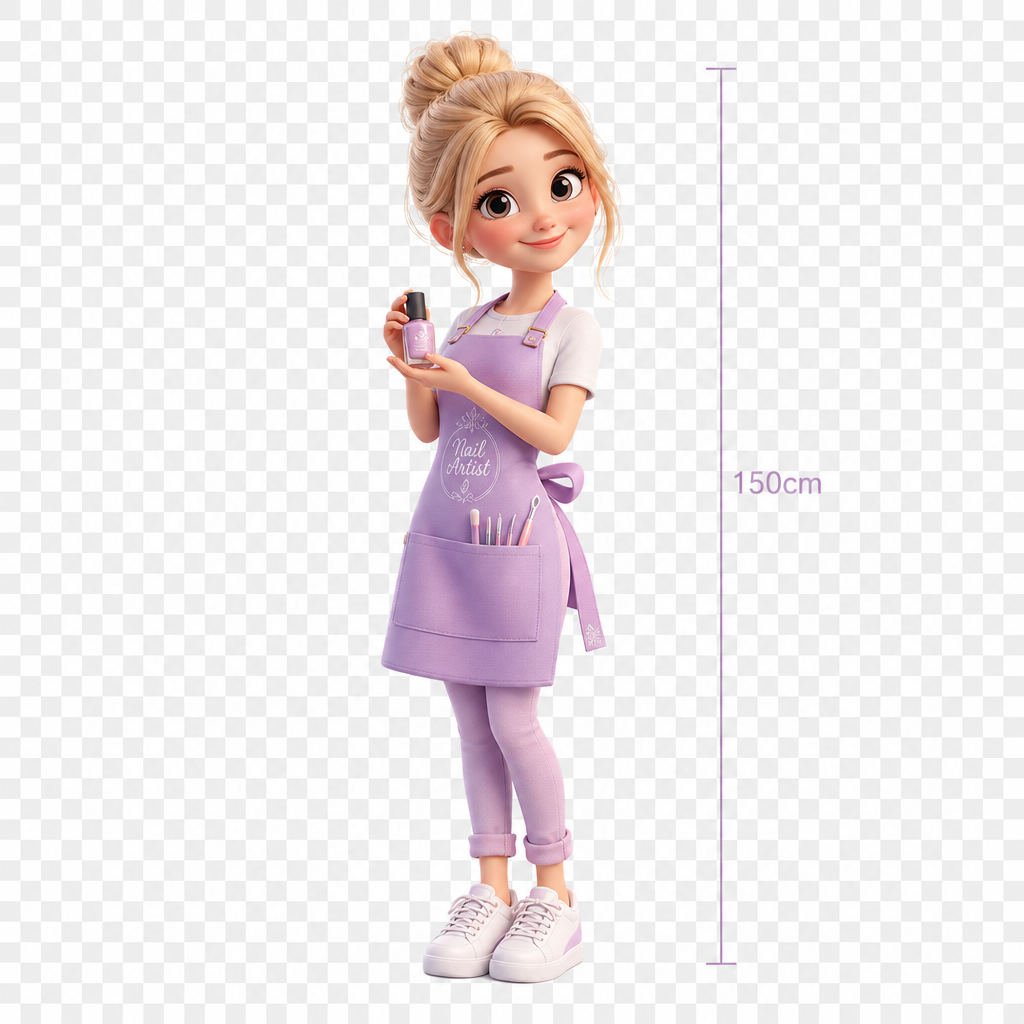
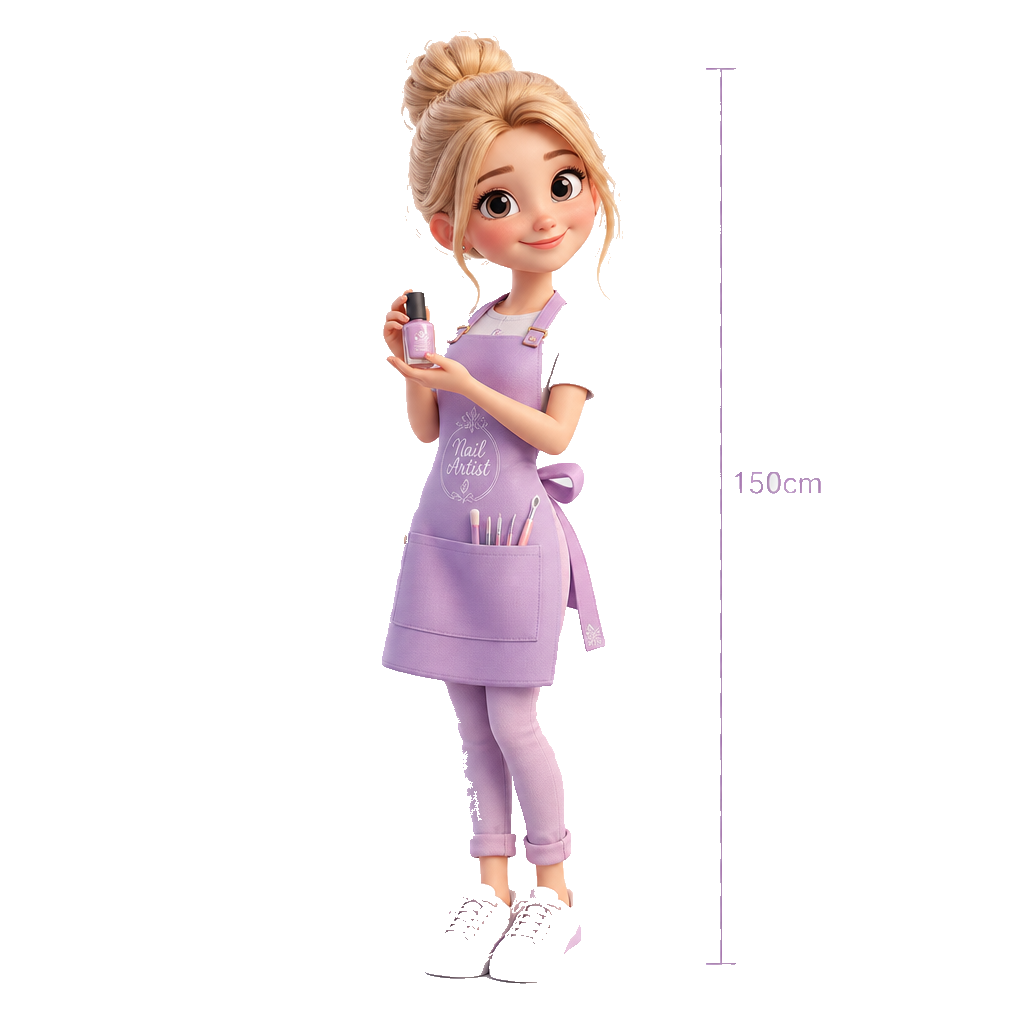
feat: add color intensity setting and restore original character asset
Keep the colorIntensity slider in salon appearance settings so managers
can control how light or bold the booking theme appears.

Revert later character image experiments: restore the original lavender
outfit design with transparent background only (flood-fill removal).

diff --git a/lib/salon-appearance.ts b/lib/salon-appearance.ts
@@ -1,12 +1,16 @@
 export interface SalonAppearance {
   hue: number
+  colorIntensity: number
   welcomeBadge: string
   welcomeSubtitle: string
   showCharacter: boolean
 }
 
+export const DEFAULT_COLOR_INTENSITY = 50
+
 export const DEFAULT_SALON_APPEARANCE: SalonAppearance = {
   hue: 300,
+  colorIntensity: DEFAULT_COLOR_INTENSITY,
   welcomeBadge: 'خوش آمدید به فیر سالن',
   welcomeSubtitle: 'تاریخ، خدمات و زمان دلخواهت رو انتخاب کن — ما آمادهایم ناخنهات رو بدرخشونیم!',
   showCharacter: true,
@@ -20,11 +24,22 @@ const LEGACY_THEME_HUE: Record<string, number> = {
   amber: 75,
 }
 
+function clamp(value: number, min: number, max: number): number {
+  return Math.min(max, Math.max(min, value))
+}
+
 function normalizeHue(value: unknown): number | null {
   if (typeof value !== 'number' || !Number.isFinite(value)) return null
   const rounded = Math.round(value)
   if (rounded < 0 || rounded > 360) return null
   return rounded === 360 ? 0 : rounded
+}
+
+export function normalizeColorIntensity(value: unknown): number {
+  if (typeof value !== 'number' || !Number.isFinite(value)) {
+    return DEFAULT_COLOR_INTENSITY
+  }
+  return clamp(Math.round(value), 0, 100)
 }
 
 export function resolveHueFromAppearance(raw: unknown): number {
@@ -48,27 +63,70 @@ function wrapHue(hue: number): number {
   return normalized
 }
 
+function intensityFactor(colorIntensity: number): number {
+  return (normalizeColorIntensity(colorIntensity) - DEFAULT_COLOR_INTENSITY) / DEFAULT_COLOR_INTENSITY
+}
+
+function adjustLightness(base: number, delta: number, factor: number): number {
+  return clamp(base - factor * delta, 0, 1)
+}
+
+function adjustChroma(base: number, delta: number, factor: number): number {
+  return clamp(base + factor * delta, 0, 0.26)
+}
+
+function oklch(l: number, c: number, h: number, alpha?: number): string {
+  const lStr = l.toFixed(2).replace(/\.?0+$/, '')
+  const cStr = c.toFixed(2).replace(/\.?0+$/, '')
+  if (alpha !== undefined) {
+    return `oklch(${lStr} ${cStr} ${h} / ${alpha})`
+  }
+  return `oklch(${lStr} ${cStr} ${h})`
+}
+
 /**
- * Build the full booking-page CSS variable palette from a single hue (0–360).
- * Mirrors the OKLCH lightness/chroma patterns of the former fixed presets.
+ * Build the full booking-page CSS variable palette from hue (0–360) and intensity (0–100).
+ * Intensity 50 matches the original fixed preset lightness/chroma values.
  */
-export function buildThemeVarsFromHue(hue: number): Record<string, string> {
+export function buildThemeVarsFromHue(
+  hue: number,
+  colorIntensity = DEFAULT_COLOR_INTENSITY
+): Record<string, string> {
   const h = wrapHue(hue)
   const h2 = wrapHue(h + 50)
   const hBanner2 = wrapHue(h + 10)
   const hBanner3 = wrapHue(h + 30)
+  const factor = intensityFactor(colorIntensity)
 
   return {
-    '--salon-bg-1': `oklch(0.94 0.04 ${h})`,
-    '--salon-bg-2': `oklch(0.97 0.02 ${h2})`,
-    '--salon-bg-3': 'oklch(0.96 0.03 85)',
-    '--salon-banner-1': `oklch(0.55 0.18 ${h})`,
-    '--salon-banner-2': `oklch(0.62 0.16 ${hBanner2})`,
-    '--salon-banner-3': `oklch(0.68 0.14 ${hBanner3})`,
-    '--salon-text': `oklch(0.35 0.12 ${h})`,
-    '--salon-text-muted': `oklch(0.45 0.08 ${h} / 0.8)`,
-    '--salon-accent': `oklch(0.62 0.2 ${h2})`,
-    '--salon-card-border': `oklch(0.92 0.03 ${h} / 0.6)`,
+    '--salon-bg-1': oklch(adjustLightness(0.94, 0.06, factor), adjustChroma(0.04, 0.03, factor), h),
+    '--salon-bg-2': oklch(adjustLightness(0.97, 0.05, factor), adjustChroma(0.02, 0.02, factor), h2),
+    '--salon-bg-3': oklch(adjustLightness(0.96, 0.04, factor), adjustChroma(0.03, 0.02, factor), 85),
+    '--salon-banner-1': oklch(adjustLightness(0.55, 0.15, factor), adjustChroma(0.18, 0.08, factor), h),
+    '--salon-banner-2': oklch(
+      adjustLightness(0.62, 0.14, factor),
+      adjustChroma(0.16, 0.07, factor),
+      hBanner2
+    ),
+    '--salon-banner-3': oklch(
+      adjustLightness(0.68, 0.12, factor),
+      adjustChroma(0.14, 0.06, factor),
+      hBanner3
+    ),
+    '--salon-text': oklch(adjustLightness(0.35, 0.08, factor), adjustChroma(0.12, 0.04, factor), h),
+    '--salon-text-muted': oklch(
+      adjustLightness(0.45, 0.07, factor),
+      adjustChroma(0.08, 0.03, factor),
+      h,
+      0.8
+    ),
+    '--salon-accent': oklch(adjustLightness(0.62, 0.1, factor), adjustChroma(0.2, 0.06, factor), h2),
+    '--salon-card-border': oklch(
+      adjustLightness(0.92, 0.04, factor),
+      adjustChroma(0.03, 0.02, factor),
+      h,
+      0.6
+    ),
   }
 }
 
@@ -81,6 +139,7 @@ export function parseSalonAppearance(raw: unknown): SalonAppearance {
 
   return {
     hue: resolveHueFromAppearance(value),
+    colorIntensity: normalizeColorIntensity(value.colorIntensity),
     welcomeBadge:
       typeof value.welcomeBadge === 'string' && value.welcomeBadge.trim()
         ? value.welcomeBadge.trim()
@@ -102,7 +161,7 @@ export function extractSalonAppearance(settings: unknown): SalonAppearance {
 }
 
 export function appearanceStyleVars(appearance: SalonAppearance): Record<string, string> {
-  return buildThemeVarsFromHue(appearance.hue)
+  return buildThemeVarsFromHue(appearance.hue, appearance.colorIntensity)
 }
 
 /** Normalize appearance patch: convert legacy theme → hue, drop theme key */
@@ -120,6 +179,10 @@ export function normalizeAppearancePatch(
   if (typeof next.hue === 'number') {
     const hue = normalizeHue(next.hue)
     if (hue !== null) next.hue = hue
+  }
+
+  if (typeof next.colorIntensity === 'number') {
+    next.colorIntensity = normalizeColorIntensity(next.colorIntensity)
   }
 
   return next

diff --git a/tests/salon-appearance.test.ts b/tests/salon-appearance.test.ts
@@ -1,0 +1,68 @@
+import { describe, it, expect } from 'vitest'
+import {
+  buildThemeVarsFromHue,
+  DEFAULT_COLOR_INTENSITY,
+  DEFAULT_SALON_APPEARANCE,
+  normalizeColorIntensity,
+  parseSalonAppearance,
+  appearanceStyleVars,
+} from '@/lib/salon-appearance'
+
+describe('normalizeColorIntensity', () => {
+  it('defaults invalid values to 50', () => {
+    expect(normalizeColorIntensity(undefined)).toBe(50)
+    expect(normalizeColorIntensity(null)).toBe(50)
+    expect(normalizeColorIntensity('abc')).toBe(50)
+  })
+
+  it('clamps to 0–100', () => {
+    expect(normalizeColorIntensity(-10)).toBe(0)
+    expect(normalizeColorIntensity(150)).toBe(100)
+    expect(normalizeColorIntensity(72.6)).toBe(73)
+  })
+})
+
+describe('parseSalonAppearance', () => {
+  it('defaults colorIntensity when missing', () => {
+    const appearance = parseSalonAppearance({ hue: 300 })
+    expect(appearance.colorIntensity).toBe(DEFAULT_COLOR_INTENSITY)
+  })
+
+  it('reads colorIntensity when set', () => {
+    const appearance = parseSalonAppearance({ hue: 300, colorIntensity: 80 })
+    expect(appearance.colorIntensity).toBe(80)
+  })
+})
+
+describe('buildThemeVarsFromHue', () => {
+  const baseline = buildThemeVarsFromHue(300, DEFAULT_COLOR_INTENSITY)
+
+  it('matches original palette at default intensity', () => {
+    expect(baseline['--salon-bg-1']).toBe('oklch(0.94 0.04 300)')
+    expect(baseline['--salon-banner-1']).toBe('oklch(0.55 0.18 300)')
+    expect(baseline['--salon-text']).toBe('oklch(0.35 0.12 300)')
+    expect(baseline['--salon-text-muted']).toBe('oklch(0.45 0.08 300 / 0.8)')
+  })
+
+  it('darkens and saturates banners at high intensity', () => {
+    const bold = buildThemeVarsFromHue(300, 100)
+    expect(bold['--salon-banner-1']).toBe('oklch(0.4 0.26 300)')
+    expect(bold['--salon-bg-1']).toBe('oklch(0.88 0.07 300)')
+  })
+
+  it('lightens and softens banners at low intensity', () => {
+    const soft = buildThemeVarsFromHue(300, 0)
+    expect(soft['--salon-banner-1']).toBe('oklch(0.7 0.1 300)')
+    expect(soft['--salon-bg-1']).toBe('oklch(1 0.01 300)')
+  })
+
+  it('passes colorIntensity through appearanceStyleVars', () => {
+    const appearance = {
+      ...DEFAULT_SALON_APPEARANCE,
+      hue: 190,
+      colorIntensity: 100,
+    }
+    const vars = appearanceStyleVars(appearance)
+    expect(vars['--salon-banner-1']).toBe('oklch(0.4 0.26 190)')
+  })
+})

diff --git a/components/salon/color-intensity-slider.tsx b/components/salon/color-intensity-slider.tsx
@@ -1,0 +1,47 @@
+'use client'
+
+import { Label } from '@/components/ui/label'
+import { Slider } from '@/components/ui/slider'
+import { englishToPersian } from '@/lib/jalali'
+
+interface ColorIntensitySliderProps {
+  value: number
+  onChange: (colorIntensity: number) => void
+}
+
+export function ColorIntensitySlider({ value, onChange }: ColorIntensitySliderProps) {
+  const intensity = Number.isFinite(value) ? Math.min(100, Math.max(0, Math.round(value))) : 50
+
+  return (
+    <div className="space-y-4">
+      <div className="flex items-center justify-between gap-3">
+        <Label>شدت رنگ</Label>
+        <span className="text-sm text-muted-foreground tabular-nums" dir="ltr">
+          {englishToPersian(String(intensity))}
+        </span>
+      </div>
+
+      <div className="relative pt-1 pb-2" dir="ltr">
+        <div
+          className="absolute inset-x-0 top-1/2 h-3 -translate-y-1/2 rounded-full bg-gradient-to-r from-violet-100 via-violet-400 to-violet-900"
+          aria-hidden
+        />
+        <Slider
+          min={0}
+          max={100}
+          step={1}
+          value={[intensity]}
+          onValueChange={(values) => {
+            const next = values[0]
+            if (typeof next === 'number') onChange(next)
+          }}
+          className="relative z-10 [&_[data-slot=slider-track]]:bg-transparent [&_[data-slot=slider-range]]:bg-transparent"
+        />
+      </div>
+
+      <p className="text-xs text-muted-foreground">
+        ملایم و روشنتر در سمت چپ — پررنگ و تیرهتر در سمت راست
+      </p>
+    </div>
+  )
+}

diff --git a/app/dashboard/settings/page.tsx b/app/dashboard/settings/page.tsx
@@ -28,7 +28,7 @@ import {
   extractSalonAppearance,
   appearanceStyleVars,
 } from '@/lib/salon-appearance'
-import { HueColorSlider } from '@/components/salon'
+import { HueColorSlider, ColorIntensitySlider } from '@/components/salon'
 
 const fetcher = async (url: string) => {
   const res = await fetch(url, { credentials: 'include', cache: 'no-store' })
@@ -458,10 +458,15 @@ export default function SettingsPage() {
                   رنگ دلخواه خود را از طیف رنگی انتخاب کنید — پسزمینه، بنر و جزئیات صفحه رزرو بهصورت خودکار هماهنگ میشوند
                 </CardDescription>
               </CardHeader>
-              <CardContent>
+              <CardContent className="space-y-8">
                 <HueColorSlider
                   value={appearance.hue}
+                  colorIntensity={appearance.colorIntensity}
                   onChange={(hue) => updateAppearance('hue', hue)}
+                />
+                <ColorIntensitySlider
+                  value={appearance.colorIntensity}
+                  onChange={(colorIntensity) => updateAppearance('colorIntensity', colorIntensity)}
                 />
               </CardContent>
             </Card>

diff --git a/components/salon/hue-color-slider.tsx b/components/salon/hue-color-slider.tsx
@@ -7,15 +7,16 @@ import { englishToPersian } from '@/lib/jalali'
 
 interface HueColorSliderProps {
   value: number
+  colorIntensity?: number
   onChange: (hue: number) => void
 }
 
 const RAINBOW_GRADIENT =
   'linear-gradient(to right, hsl(0 90% 55%), hsl(60 90% 50%), hsl(120 80% 45%), hsl(180 80% 45%), hsl(240 80% 55%), hsl(300 80% 55%), hsl(360 90% 55%))'
 
-export function HueColorSlider({ value, onChange }: HueColorSliderProps) {
+export function HueColorSlider({ value, colorIntensity = 50, onChange }: HueColorSliderProps) {
   const hue = Number.isFinite(value) ? Math.min(360, Math.max(0, Math.round(value))) : 300
-  const vars = buildThemeVarsFromHue(hue)
+  const vars = buildThemeVarsFromHue(hue, colorIntensity)
 
   return (
     <div className="space-y-4">

diff --git a/app/api/dashboard/settings/route.ts b/app/api/dashboard/settings/route.ts
@@ -14,6 +14,7 @@ function canManageSettings(role: UserRole) {
 
 const appearanceSchema = z.object({
   hue: z.number().min(0).max(360).optional(),
+  colorIntensity: z.number().min(0).max(100).optional(),
   // Accept legacy theme for old clients; mergeSalonSettings converts to hue
   theme: z.enum(['violet', 'rose', 'teal', 'amber']).optional(),
   welcomeBadge: z.string().max(80).optional(),

diff --git a/components/salon/index.ts b/components/salon/index.ts
@@ -2,3 +2,4 @@ export { NailArtistCharacter } from './nail-artist-character'
 export { WelcomeBanner } from './welcome-banner'
 export { CharacterTip } from './character-tip'
 export { HueColorSlider } from './hue-color-slider'
+export { ColorIntensitySlider } from './color-intensity-slider'
